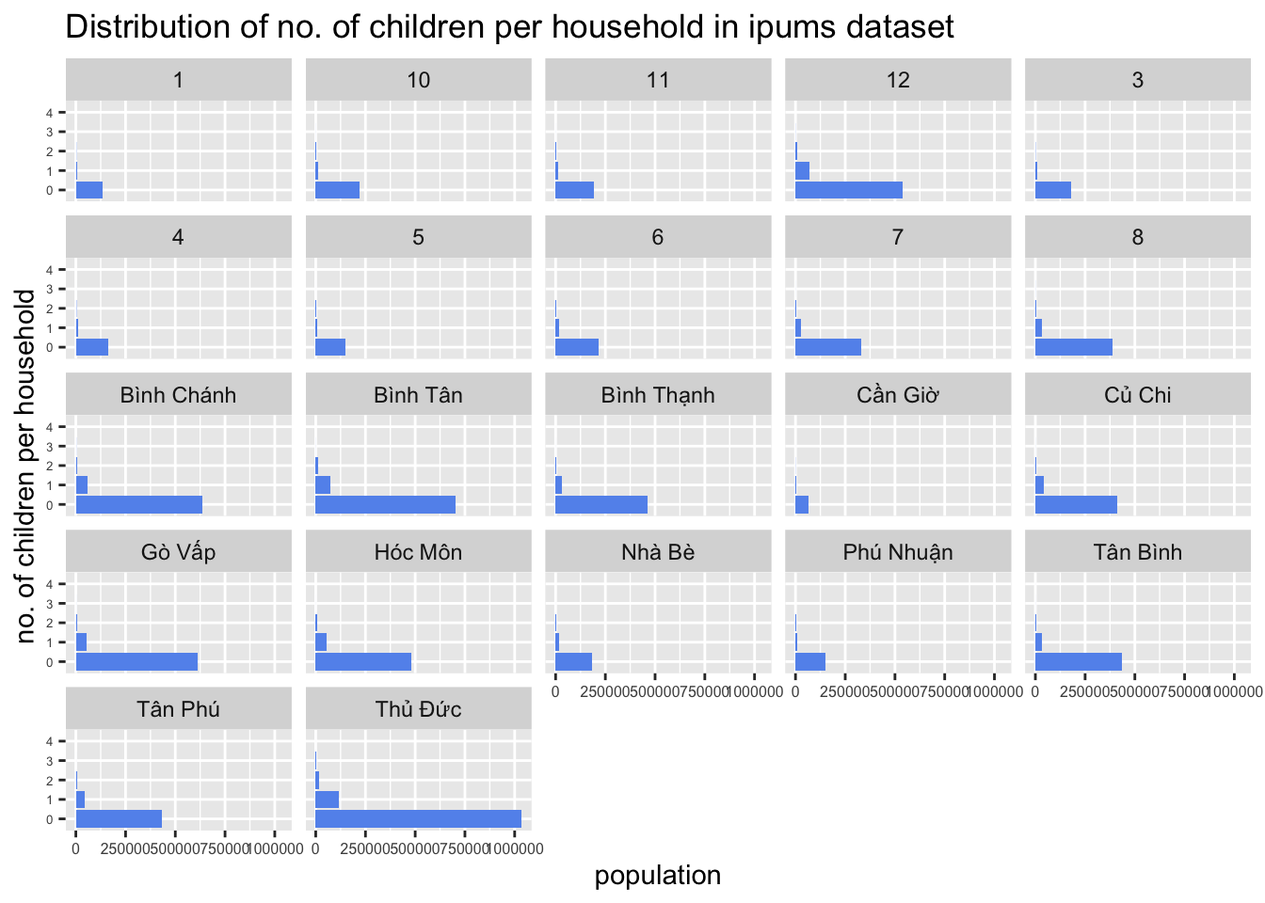
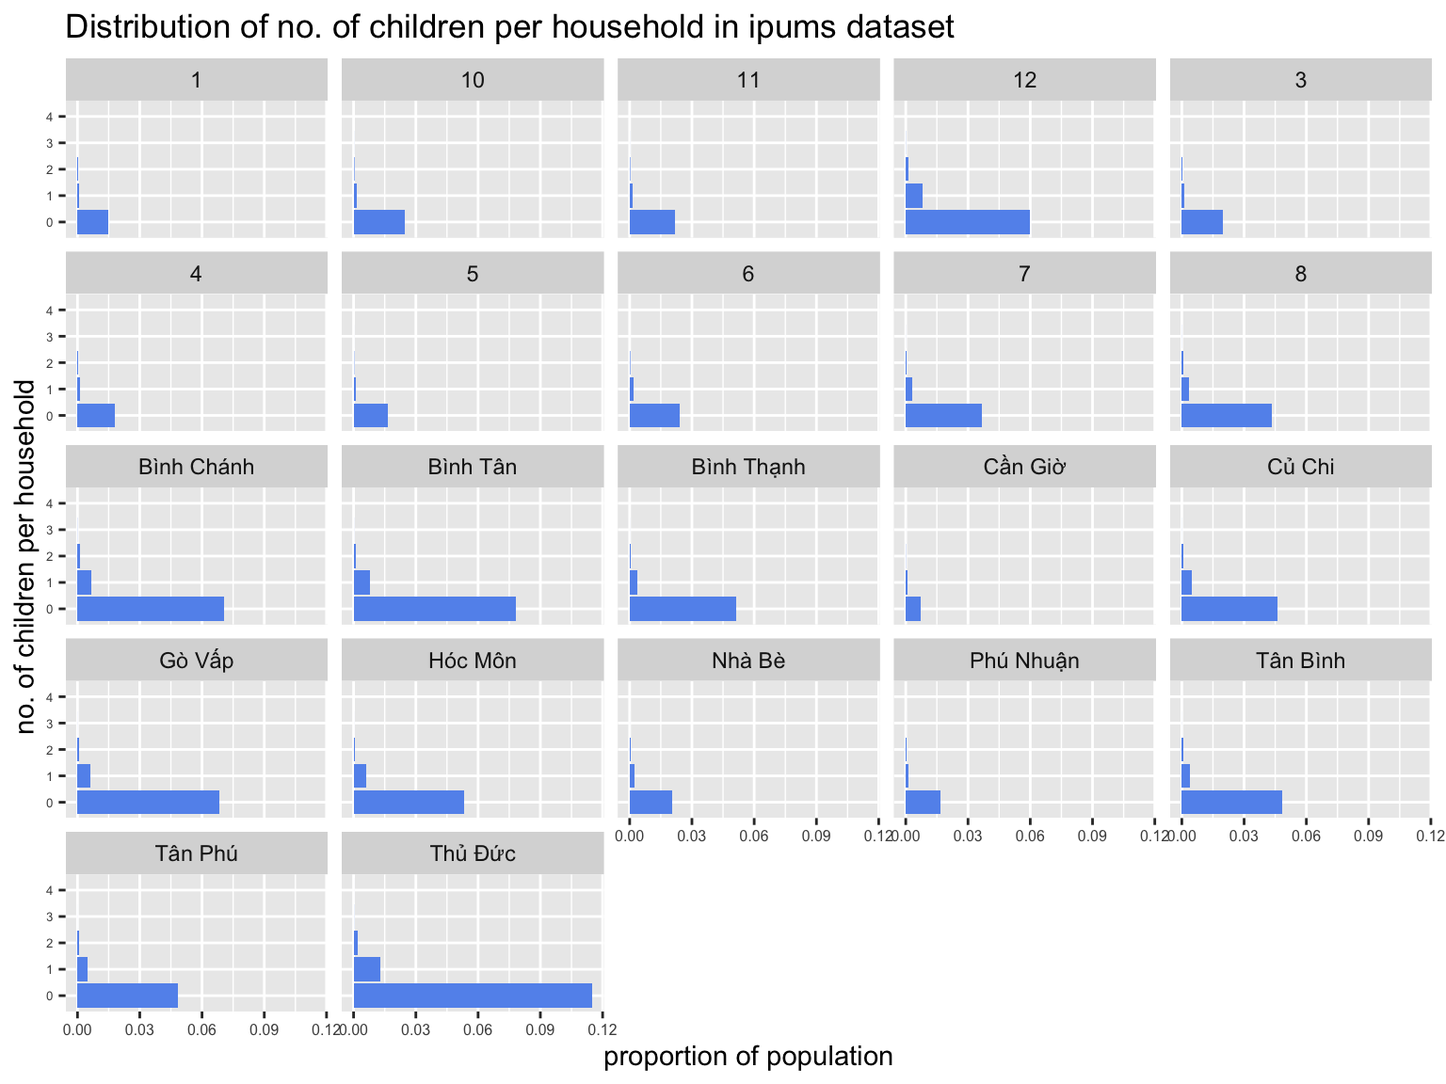
plot proportion instead of population count

Changed region(s): [[0.0, 0.0, 1.0, 1.0]]

diff --git a/synthetic_hcm.html b/synthetic_hcm.html
@@ -720,22 +720,25 @@ serial,vn2019a_pern,vn2019a_age,sex,qh,urban,pid,weight,relig,edlev,empstat,econ
 <span id="cb43-33"><a href="#cb43-33" aria-hidden="true" tabindex="-1"></a>age_pyramid <span class="ot">&lt;-</span> <span class="cf">function</span>(data, <span class="at">pop_col =</span> <span class="st">"population"</span>, <span class="at">agegrp_col =</span> <span class="st">"age_group"</span>,</span>
 <span id="cb43-34"><a href="#cb43-34" aria-hidden="true" tabindex="-1"></a>                        <span class="at">gender_col =</span> <span class="st">"sex"</span>, <span class="at">region_col =</span> <span class="st">"qh"</span>){</span>
 <span id="cb43-35"><a href="#cb43-35" aria-hidden="true" tabindex="-1"></a>  </span>
-<span id="cb43-36"><a href="#cb43-36" aria-hidden="true" tabindex="-1"></a>  pop_breaks <span class="ot">&lt;-</span> <span class="fu">pretty</span>(data[[pop_col]])</span>
-<span id="cb43-37"><a href="#cb43-37" aria-hidden="true" tabindex="-1"></a>  </span>
-<span id="cb43-38"><a href="#cb43-38" aria-hidden="true" tabindex="-1"></a>  <span class="fu">ggplot</span>(data) <span class="sc">+</span></span>
-<span id="cb43-39"><a href="#cb43-39" aria-hidden="true" tabindex="-1"></a>      <span class="fu">geom_col</span>(</span>
-<span id="cb43-40"><a href="#cb43-40" aria-hidden="true" tabindex="-1"></a>        <span class="fu">aes</span>(</span>
-<span id="cb43-41"><a href="#cb43-41" aria-hidden="true" tabindex="-1"></a>          <span class="at">x =</span> <span class="sc">!!</span> <span class="fu">sym</span>(pop_col), <span class="at">fill =</span> <span class="sc">!!</span> <span class="fu">sym</span>(gender_col), <span class="at">y  =</span> <span class="sc">!!</span> <span class="fu">sym</span>(agegrp_col)</span>
-<span id="cb43-42"><a href="#cb43-42" aria-hidden="true" tabindex="-1"></a>          )</span>
-<span id="cb43-43"><a href="#cb43-43" aria-hidden="true" tabindex="-1"></a>        ) <span class="sc">+</span></span>
-<span id="cb43-44"><a href="#cb43-44" aria-hidden="true" tabindex="-1"></a>        <span class="fu">scale_x_continuous</span>(</span>
-<span id="cb43-45"><a href="#cb43-45" aria-hidden="true" tabindex="-1"></a>          <span class="at">breaks =</span> pop_breaks,</span>
-<span id="cb43-46"><a href="#cb43-46" aria-hidden="true" tabindex="-1"></a>          <span class="at">labels =</span> <span class="fu">abs</span>(pop_breaks)</span>
-<span id="cb43-47"><a href="#cb43-47" aria-hidden="true" tabindex="-1"></a>        ) <span class="sc">+</span></span>
-<span id="cb43-48"><a href="#cb43-48" aria-hidden="true" tabindex="-1"></a>    <span class="fu">theme</span>(<span class="at">axis.text.x =</span> <span class="fu">element_text</span>(<span class="at">size =</span> <span class="dv">6</span>),</span>
-<span id="cb43-49"><a href="#cb43-49" aria-hidden="true" tabindex="-1"></a>          <span class="at">axis.text.y =</span> <span class="fu">element_text</span>(<span class="at">size =</span> <span class="dv">5</span>)) <span class="sc">+</span></span>
-<span id="cb43-50"><a href="#cb43-50" aria-hidden="true" tabindex="-1"></a>        <span class="fu">facet_wrap</span>(<span class="fu">vars</span>(<span class="sc">!!</span> <span class="fu">sym</span>(region_col) ))</span>
-<span id="cb43-51"><a href="#cb43-51" aria-hidden="true" tabindex="-1"></a>}</span></code><button title="Copy to Clipboard" class="code-copy-button"><i class="bi"></i></button></pre></div>
+<span id="cb43-36"><a href="#cb43-36" aria-hidden="true" tabindex="-1"></a>  <span class="co"># compute proportion instead </span></span>
+<span id="cb43-37"><a href="#cb43-37" aria-hidden="true" tabindex="-1"></a>  data[[pop_col]] <span class="ot">&lt;-</span> data[[pop_col]]<span class="sc">/</span><span class="fu">sum</span>(data[[pop_col]])</span>
+<span id="cb43-38"><a href="#cb43-38" aria-hidden="true" tabindex="-1"></a>  pop_breaks <span class="ot">&lt;-</span> <span class="fu">pretty</span>(data[[pop_col]])</span>
+<span id="cb43-39"><a href="#cb43-39" aria-hidden="true" tabindex="-1"></a>  </span>
+<span id="cb43-40"><a href="#cb43-40" aria-hidden="true" tabindex="-1"></a>  <span class="fu">ggplot</span>(data) <span class="sc">+</span></span>
+<span id="cb43-41"><a href="#cb43-41" aria-hidden="true" tabindex="-1"></a>      <span class="fu">geom_col</span>(</span>
+<span id="cb43-42"><a href="#cb43-42" aria-hidden="true" tabindex="-1"></a>        <span class="fu">aes</span>(</span>
+<span id="cb43-43"><a href="#cb43-43" aria-hidden="true" tabindex="-1"></a>          <span class="at">x =</span> <span class="sc">!!</span> <span class="fu">sym</span>(pop_col), <span class="at">fill =</span> <span class="sc">!!</span> <span class="fu">sym</span>(gender_col), <span class="at">y  =</span> <span class="sc">!!</span> <span class="fu">sym</span>(agegrp_col)</span>
+<span id="cb43-44"><a href="#cb43-44" aria-hidden="true" tabindex="-1"></a>          )</span>
+<span id="cb43-45"><a href="#cb43-45" aria-hidden="true" tabindex="-1"></a>        ) <span class="sc">+</span></span>
+<span id="cb43-46"><a href="#cb43-46" aria-hidden="true" tabindex="-1"></a>        <span class="fu">scale_x_continuous</span>(</span>
+<span id="cb43-47"><a href="#cb43-47" aria-hidden="true" tabindex="-1"></a>          <span class="at">breaks =</span> pop_breaks,</span>
+<span id="cb43-48"><a href="#cb43-48" aria-hidden="true" tabindex="-1"></a>          <span class="at">labels =</span> <span class="fu">abs</span>(pop_breaks)</span>
+<span id="cb43-49"><a href="#cb43-49" aria-hidden="true" tabindex="-1"></a>        ) <span class="sc">+</span></span>
+<span id="cb43-50"><a href="#cb43-50" aria-hidden="true" tabindex="-1"></a>        <span class="fu">labs</span>(<span class="at">x =</span> <span class="st">"proportion of population"</span>) <span class="sc">+</span></span>
+<span id="cb43-51"><a href="#cb43-51" aria-hidden="true" tabindex="-1"></a>        <span class="fu">theme</span>(<span class="at">axis.text.x =</span> <span class="fu">element_text</span>(<span class="at">size =</span> <span class="dv">6</span>),</span>
+<span id="cb43-52"><a href="#cb43-52" aria-hidden="true" tabindex="-1"></a>              <span class="at">axis.text.y =</span> <span class="fu">element_text</span>(<span class="at">size =</span> <span class="dv">5</span>)) <span class="sc">+</span></span>
+<span id="cb43-53"><a href="#cb43-53" aria-hidden="true" tabindex="-1"></a>        <span class="fu">facet_wrap</span>(<span class="fu">vars</span>(<span class="sc">!!</span> <span class="fu">sym</span>(region_col) ))</span>
+<span id="cb43-54"><a href="#cb43-54" aria-hidden="true" tabindex="-1"></a>}</span></code><button title="Copy to Clipboard" class="code-copy-button"><i class="bi"></i></button></pre></div>
 </details>
 </div>
 <div class="panel-tabset">
@@ -780,28 +783,31 @@ serial,vn2019a_pern,vn2019a_age,sex,qh,urban,pid,weight,relig,edlev,empstat,econ
 <span id="cb47-5"><a href="#cb47-5" aria-hidden="true" tabindex="-1"></a>  </span>
 <span id="cb47-6"><a href="#cb47-6" aria-hidden="true" tabindex="-1"></a>  <span class="co"># compute population to plot </span></span>
 <span id="cb47-7"><a href="#cb47-7" aria-hidden="true" tabindex="-1"></a>  dist <span class="ot">&lt;-</span> data <span class="sc">%&gt;%</span> </span>
-<span id="cb47-8"><a href="#cb47-8" aria-hidden="true" tabindex="-1"></a>  <span class="fu">group_by</span>(<span class="sc">!!</span><span class="fu">sym</span>(region_col), <span class="sc">!!</span><span class="fu">sym</span>(plot_col)) <span class="sc">%&gt;%</span> </span>
-<span id="cb47-9"><a href="#cb47-9" aria-hidden="true" tabindex="-1"></a>  <span class="fu">summarize</span>(<span class="at">population =</span> <span class="fu">eval</span>(rlang<span class="sc">::</span><span class="fu">parse_expr</span>(pop_formula)) ) <span class="sc">%&gt;%</span> </span>
-<span id="cb47-10"><a href="#cb47-10" aria-hidden="true" tabindex="-1"></a>  <span class="fu">ungroup</span>()</span>
+<span id="cb47-8"><a href="#cb47-8" aria-hidden="true" tabindex="-1"></a>    <span class="fu">group_by</span>(<span class="sc">!!</span><span class="fu">sym</span>(region_col), <span class="sc">!!</span><span class="fu">sym</span>(plot_col)) <span class="sc">%&gt;%</span> </span>
+<span id="cb47-9"><a href="#cb47-9" aria-hidden="true" tabindex="-1"></a>    <span class="fu">summarize</span>(<span class="at">population =</span> <span class="fu">eval</span>(rlang<span class="sc">::</span><span class="fu">parse_expr</span>(pop_formula)) ) <span class="sc">%&gt;%</span> </span>
+<span id="cb47-10"><a href="#cb47-10" aria-hidden="true" tabindex="-1"></a>    <span class="fu">ungroup</span>()</span>
 <span id="cb47-11"><a href="#cb47-11" aria-hidden="true" tabindex="-1"></a>  </span>
-<span id="cb47-12"><a href="#cb47-12" aria-hidden="true" tabindex="-1"></a>  <span class="co"># handle label for plotted column</span></span>
-<span id="cb47-13"><a href="#cb47-13" aria-hidden="true" tabindex="-1"></a>  <span class="cf">if</span> (<span class="fu">is.null</span>(col_label)){ col_label <span class="ot">&lt;-</span> plot_col }</span>
-<span id="cb47-14"><a href="#cb47-14" aria-hidden="true" tabindex="-1"></a></span>
-<span id="cb47-15"><a href="#cb47-15" aria-hidden="true" tabindex="-1"></a>  <span class="fu">ggplot</span>(dist) <span class="sc">+</span></span>
-<span id="cb47-16"><a href="#cb47-16" aria-hidden="true" tabindex="-1"></a>    <span class="fu">geom_col</span>(</span>
-<span id="cb47-17"><a href="#cb47-17" aria-hidden="true" tabindex="-1"></a>          <span class="fu">aes</span>(</span>
-<span id="cb47-18"><a href="#cb47-18" aria-hidden="true" tabindex="-1"></a>            <span class="at">x =</span> population, <span class="at">y  =</span> <span class="fu">as.factor</span>(<span class="sc">!!</span> <span class="fu">sym</span>(plot_col))</span>
-<span id="cb47-19"><a href="#cb47-19" aria-hidden="true" tabindex="-1"></a>            ),</span>
-<span id="cb47-20"><a href="#cb47-20" aria-hidden="true" tabindex="-1"></a>          <span class="at">fill =</span> <span class="st">"cornflowerblue"</span></span>
-<span id="cb47-21"><a href="#cb47-21" aria-hidden="true" tabindex="-1"></a>          ) <span class="sc">+</span></span>
-<span id="cb47-22"><a href="#cb47-22" aria-hidden="true" tabindex="-1"></a>    <span class="fu">theme</span>(<span class="at">axis.text.x =</span> <span class="fu">element_text</span>(<span class="at">size =</span> <span class="dv">6</span>),</span>
-<span id="cb47-23"><a href="#cb47-23" aria-hidden="true" tabindex="-1"></a>          <span class="at">axis.text.y =</span> <span class="fu">element_text</span>(<span class="at">size =</span> <span class="dv">5</span>)) <span class="sc">+</span></span>
-<span id="cb47-24"><a href="#cb47-24" aria-hidden="true" tabindex="-1"></a>    <span class="fu">labs</span>(</span>
-<span id="cb47-25"><a href="#cb47-25" aria-hidden="true" tabindex="-1"></a>      <span class="at">title =</span> <span class="fu">str_interp</span>(<span class="st">"Distribution of ${col_label} in ${data_label} dataset"</span>),</span>
-<span id="cb47-26"><a href="#cb47-26" aria-hidden="true" tabindex="-1"></a>      <span class="at">y =</span> col_label</span>
-<span id="cb47-27"><a href="#cb47-27" aria-hidden="true" tabindex="-1"></a>    ) <span class="sc">+</span></span>
-<span id="cb47-28"><a href="#cb47-28" aria-hidden="true" tabindex="-1"></a>    <span class="fu">facet_wrap</span>(<span class="fu">vars</span>(<span class="sc">!!</span> <span class="fu">sym</span>(region_col) )) </span>
-<span id="cb47-29"><a href="#cb47-29" aria-hidden="true" tabindex="-1"></a>}</span></code><button title="Copy to Clipboard" class="code-copy-button"><i class="bi"></i></button></pre></div>
+<span id="cb47-12"><a href="#cb47-12" aria-hidden="true" tabindex="-1"></a>  dist<span class="sc">$</span>prop <span class="ot">&lt;-</span> dist<span class="sc">$</span>population<span class="sc">/</span><span class="fu">sum</span>(dist<span class="sc">$</span>population)</span>
+<span id="cb47-13"><a href="#cb47-13" aria-hidden="true" tabindex="-1"></a>  </span>
+<span id="cb47-14"><a href="#cb47-14" aria-hidden="true" tabindex="-1"></a>  <span class="co"># handle label for plotted column</span></span>
+<span id="cb47-15"><a href="#cb47-15" aria-hidden="true" tabindex="-1"></a>  <span class="cf">if</span> (<span class="fu">is.null</span>(col_label)){ col_label <span class="ot">&lt;-</span> plot_col }</span>
+<span id="cb47-16"><a href="#cb47-16" aria-hidden="true" tabindex="-1"></a></span>
+<span id="cb47-17"><a href="#cb47-17" aria-hidden="true" tabindex="-1"></a>  <span class="fu">ggplot</span>(dist) <span class="sc">+</span></span>
+<span id="cb47-18"><a href="#cb47-18" aria-hidden="true" tabindex="-1"></a>    <span class="fu">geom_col</span>(</span>
+<span id="cb47-19"><a href="#cb47-19" aria-hidden="true" tabindex="-1"></a>          <span class="fu">aes</span>(</span>
+<span id="cb47-20"><a href="#cb47-20" aria-hidden="true" tabindex="-1"></a>            <span class="at">x =</span> prop, <span class="at">y  =</span> <span class="fu">as.factor</span>(<span class="sc">!!</span> <span class="fu">sym</span>(plot_col))</span>
+<span id="cb47-21"><a href="#cb47-21" aria-hidden="true" tabindex="-1"></a>            ),</span>
+<span id="cb47-22"><a href="#cb47-22" aria-hidden="true" tabindex="-1"></a>          <span class="at">fill =</span> <span class="st">"cornflowerblue"</span></span>
+<span id="cb47-23"><a href="#cb47-23" aria-hidden="true" tabindex="-1"></a>          ) <span class="sc">+</span></span>
+<span id="cb47-24"><a href="#cb47-24" aria-hidden="true" tabindex="-1"></a>    <span class="fu">theme</span>(<span class="at">axis.text.x =</span> <span class="fu">element_text</span>(<span class="at">size =</span> <span class="dv">6</span>),</span>
+<span id="cb47-25"><a href="#cb47-25" aria-hidden="true" tabindex="-1"></a>          <span class="at">axis.text.y =</span> <span class="fu">element_text</span>(<span class="at">size =</span> <span class="dv">5</span>)) <span class="sc">+</span></span>
+<span id="cb47-26"><a href="#cb47-26" aria-hidden="true" tabindex="-1"></a>    <span class="fu">labs</span>(</span>
+<span id="cb47-27"><a href="#cb47-27" aria-hidden="true" tabindex="-1"></a>      <span class="at">title =</span> <span class="fu">str_interp</span>(<span class="st">"Distribution of ${col_label} in ${data_label} dataset"</span>),</span>
+<span id="cb47-28"><a href="#cb47-28" aria-hidden="true" tabindex="-1"></a>      <span class="at">x =</span> <span class="st">"proportion of population"</span>,</span>
+<span id="cb47-29"><a href="#cb47-29" aria-hidden="true" tabindex="-1"></a>      <span class="at">y =</span> col_label</span>
+<span id="cb47-30"><a href="#cb47-30" aria-hidden="true" tabindex="-1"></a>    ) <span class="sc">+</span></span>
+<span id="cb47-31"><a href="#cb47-31" aria-hidden="true" tabindex="-1"></a>    <span class="fu">facet_wrap</span>(<span class="fu">vars</span>(<span class="sc">!!</span> <span class="fu">sym</span>(region_col) )) </span>
+<span id="cb47-32"><a href="#cb47-32" aria-hidden="true" tabindex="-1"></a>}</span></code><button title="Copy to Clipboard" class="code-copy-button"><i class="bi"></i></button></pre></div>
 </details>
 </div>
 <div class="panel-tabset">
@@ -812,12 +818,12 @@ serial,vn2019a_pern,vn2019a_age,sex,qh,urban,pid,weight,relig,edlev,empstat,econ
 <div class="sourceCode cell-code" id="cb48"><pre class="sourceCode r code-with-copy"><code class="sourceCode r"><span id="cb48-1"><a href="#cb48-1" aria-hidden="true" tabindex="-1"></a><span class="fu">plot_var_dist</span>(synthetic_population<span class="sc">@</span>pop<span class="sc">@</span>data, </span>
 <span id="cb48-2"><a href="#cb48-2" aria-hidden="true" tabindex="-1"></a>      <span class="at">plot_col =</span> <span class="st">"edlev"</span>, <span class="at">col_label =</span> <span class="st">"education level"</span>, <span class="at">data_label =</span> <span class="st">"synthetic"</span>)</span></code><button title="Copy to Clipboard" class="code-copy-button"><i class="bi"></i></button></pre></div>
 <div class="cell-output-display">
-<p><img src="synthetic_hcm_files/figure-html/unnamed-chunk-22-1.png" class="img-fluid" width="672"></p>
+<p><img src="synthetic_hcm_files/figure-html/unnamed-chunk-22-1.png" class="img-fluid" style="width:100.0%"></p>
 </div>
 <div class="sourceCode cell-code" id="cb49"><pre class="sourceCode r code-with-copy"><code class="sourceCode r"><span id="cb49-1"><a href="#cb49-1" aria-hidden="true" tabindex="-1"></a><span class="fu">plot_var_dist</span>(micro_data, <span class="at">pop_formula =</span> <span class="st">"sum(perwt)"</span>, </span>
 <span id="cb49-2"><a href="#cb49-2" aria-hidden="true" tabindex="-1"></a>              <span class="at">plot_col =</span> <span class="st">"edlev"</span>, <span class="at">col_label =</span> <span class="st">"education level"</span>, <span class="at">data_label =</span> <span class="st">"ipums"</span>)</span></code><button title="Copy to Clipboard" class="code-copy-button"><i class="bi"></i></button></pre></div>
 <div class="cell-output-display">
-<p><img src="synthetic_hcm_files/figure-html/unnamed-chunk-22-2.png" class="img-fluid" width="672"></p>
+<p><img src="synthetic_hcm_files/figure-html/unnamed-chunk-22-2.png" class="img-fluid" style="width:100.0%"></p>
 </div>
 </div>
 </div>
@@ -826,12 +832,12 @@ serial,vn2019a_pern,vn2019a_age,sex,qh,urban,pid,weight,relig,edlev,empstat,econ
 <div class="sourceCode cell-code" id="cb50"><pre class="sourceCode r code-with-copy"><code class="sourceCode r"><span id="cb50-1"><a href="#cb50-1" aria-hidden="true" tabindex="-1"></a><span class="fu">plot_var_dist</span>(synthetic_population<span class="sc">@</span>pop<span class="sc">@</span>data, <span class="at">plot_col =</span> <span class="st">"urban"</span>,</span>
 <span id="cb50-2"><a href="#cb50-2" aria-hidden="true" tabindex="-1"></a>              <span class="at">col_label =</span> <span class="st">"urban-rural status"</span>, <span class="at">data_label =</span> <span class="st">"synthetic"</span>)</span></code><button title="Copy to Clipboard" class="code-copy-button"><i class="bi"></i></button></pre></div>
 <div class="cell-output-display">
-<p><img src="synthetic_hcm_files/figure-html/unnamed-chunk-23-1.png" class="img-fluid" width="672"></p>
+<p><img src="synthetic_hcm_files/figure-html/unnamed-chunk-23-1.png" class="img-fluid" style="width:100.0%"></p>
 </div>
 <div class="sourceCode cell-code" id="cb51"><pre class="sourceCode r code-with-copy"><code class="sourceCode r"><span id="cb51-1"><a href="#cb51-1" aria-hidden="true" tabindex="-1"></a><span class="fu">plot_var_dist</span>(micro_data, <span class="at">pop_formula =</span> <span class="st">"sum(perwt)"</span>, <span class="at">plot_col =</span> <span class="st">"urban"</span>,</span>
 <span id="cb51-2"><a href="#cb51-2" aria-hidden="true" tabindex="-1"></a>              <span class="at">col_label =</span> <span class="st">"urban-rural status"</span>, <span class="at">data_label =</span> <span class="st">"ipums"</span>)</span></code><button title="Copy to Clipboard" class="code-copy-button"><i class="bi"></i></button></pre></div>
 <div class="cell-output-display">
-<p><img src="synthetic_hcm_files/figure-html/unnamed-chunk-23-2.png" class="img-fluid" width="672"></p>
+<p><img src="synthetic_hcm_files/figure-html/unnamed-chunk-23-2.png" class="img-fluid" style="width:100.0%"></p>
 </div>
 </div>
 </div>
@@ -840,12 +846,12 @@ serial,vn2019a_pern,vn2019a_age,sex,qh,urban,pid,weight,relig,edlev,empstat,econ
 <div class="sourceCode cell-code" id="cb52"><pre class="sourceCode r code-with-copy"><code class="sourceCode r"><span id="cb52-1"><a href="#cb52-1" aria-hidden="true" tabindex="-1"></a><span class="fu">plot_var_dist</span>(synthetic_population<span class="sc">@</span>pop<span class="sc">@</span>data, <span class="at">plot_col =</span> <span class="st">"nchlt5"</span>,</span>
 <span id="cb52-2"><a href="#cb52-2" aria-hidden="true" tabindex="-1"></a>            <span class="at">col_label =</span> <span class="st">"no. of children per household"</span>, <span class="at">data_label =</span> <span class="st">"synthetic"</span>)</span></code><button title="Copy to Clipboard" class="code-copy-button"><i class="bi"></i></button></pre></div>
 <div class="cell-output-display">
-<p><img src="synthetic_hcm_files/figure-html/unnamed-chunk-24-1.png" class="img-fluid" width="672"></p>
+<p><img src="synthetic_hcm_files/figure-html/unnamed-chunk-24-1.png" class="img-fluid" style="width:100.0%"></p>
 </div>
 <div class="sourceCode cell-code" id="cb53"><pre class="sourceCode r code-with-copy"><code class="sourceCode r"><span id="cb53-1"><a href="#cb53-1" aria-hidden="true" tabindex="-1"></a><span class="fu">plot_var_dist</span>(micro_data, <span class="at">pop_formula =</span> <span class="st">"sum(perwt)"</span>, <span class="at">plot_col =</span> <span class="st">"nchlt5"</span>,</span>
 <span id="cb53-2"><a href="#cb53-2" aria-hidden="true" tabindex="-1"></a>            <span class="at">col_label =</span> <span class="st">"no. of children per household"</span>, <span class="at">data_label =</span> <span class="st">"ipums"</span>)</span></code><button title="Copy to Clipboard" class="code-copy-button"><i class="bi"></i></button></pre></div>
 <div class="cell-output-display">
-<p><img src="synthetic_hcm_files/figure-html/unnamed-chunk-24-2.png" class="img-fluid" width="672"></p>
+<p><img src="synthetic_hcm_files/figure-html/unnamed-chunk-24-2.png" class="img-fluid" style="width:100.0%"></p>
 </div>
 </div>
 </div>
@@ -854,12 +860,12 @@ serial,vn2019a_pern,vn2019a_age,sex,qh,urban,pid,weight,relig,edlev,empstat,econ
 <div class="sourceCode cell-code" id="cb54"><pre class="sourceCode r code-with-copy"><code class="sourceCode r"><span id="cb54-1"><a href="#cb54-1" aria-hidden="true" tabindex="-1"></a><span class="fu">plot_var_dist</span>(synthetic_population<span class="sc">@</span>pop<span class="sc">@</span>data, <span class="at">plot_col =</span> <span class="st">"relig"</span>,</span>
 <span id="cb54-2"><a href="#cb54-2" aria-hidden="true" tabindex="-1"></a>            <span class="at">col_label =</span> <span class="st">"religion"</span>, <span class="at">data_label =</span> <span class="st">"synthetic"</span>)</span></code><button title="Copy to Clipboard" class="code-copy-button"><i class="bi"></i></button></pre></div>
 <div class="cell-output-display">
-<p><img src="synthetic_hcm_files/figure-html/unnamed-chunk-25-1.png" class="img-fluid" width="672"></p>
+<p><img src="synthetic_hcm_files/figure-html/unnamed-chunk-25-1.png" class="img-fluid" style="width:100.0%"></p>
 </div>
 <div class="sourceCode cell-code" id="cb55"><pre class="sourceCode r code-with-copy"><code class="sourceCode r"><span id="cb55-1"><a href="#cb55-1" aria-hidden="true" tabindex="-1"></a><span class="fu">plot_var_dist</span>(micro_data, <span class="at">pop_formula =</span> <span class="st">"sum(perwt)"</span>, <span class="at">plot_col =</span> <span class="st">"relig"</span>,</span>
 <span id="cb55-2"><a href="#cb55-2" aria-hidden="true" tabindex="-1"></a>            <span class="at">col_label =</span> <span class="st">"religion"</span>, <span class="at">data_label =</span> <span class="st">"ipums"</span>)</span></code><button title="Copy to Clipboard" class="code-copy-button"><i class="bi"></i></button></pre></div>
 <div class="cell-output-display">
-<p><img src="synthetic_hcm_files/figure-html/unnamed-chunk-25-2.png" class="img-fluid" width="672"></p>
+<p><img src="synthetic_hcm_files/figure-html/unnamed-chunk-25-2.png" class="img-fluid" style="width:100.0%"></p>
 </div>
 </div>
 </div>
@@ -868,12 +874,12 @@ serial,vn2019a_pern,vn2019a_age,sex,qh,urban,pid,weight,relig,edlev,empstat,econ
 <div class="sourceCode cell-code" id="cb56"><pre class="sourceCode r code-with-copy"><code class="sourceCode r"><span id="cb56-1"><a href="#cb56-1" aria-hidden="true" tabindex="-1"></a><span class="fu">plot_var_dist</span>(synthetic_population<span class="sc">@</span>pop<span class="sc">@</span>data, <span class="at">plot_col =</span> <span class="st">"economic_status"</span>,</span>
 <span id="cb56-2"><a href="#cb56-2" aria-hidden="true" tabindex="-1"></a>              <span class="at">col_label =</span> <span class="st">"economic status"</span>, <span class="at">data_label =</span> <span class="st">"synthetic"</span>)</span></code><button title="Copy to Clipboard" class="code-copy-button"><i class="bi"></i></button></pre></div>
 <div class="cell-output-display">
-<p><img src="synthetic_hcm_files/figure-html/unnamed-chunk-26-1.png" class="img-fluid" width="672"></p>
+<p><img src="synthetic_hcm_files/figure-html/unnamed-chunk-26-1.png" class="img-fluid" style="width:100.0%"></p>
 </div>
 <div class="sourceCode cell-code" id="cb57"><pre class="sourceCode r code-with-copy"><code class="sourceCode r"><span id="cb57-1"><a href="#cb57-1" aria-hidden="true" tabindex="-1"></a><span class="fu">plot_var_dist</span>(micro_data, <span class="at">pop_formula =</span> <span class="st">"sum(perwt)"</span>, <span class="at">plot_col =</span> <span class="st">"economic_status"</span>,</span>
 <span id="cb57-2"><a href="#cb57-2" aria-hidden="true" tabindex="-1"></a>              <span class="at">col_label =</span> <span class="st">"economic status"</span>, <span class="at">data_label =</span> <span class="st">"ipums"</span>)</span></code><button title="Copy to Clipboard" class="code-copy-button"><i class="bi"></i></button></pre></div>
 <div class="cell-output-display">
-<p><img src="synthetic_hcm_files/figure-html/unnamed-chunk-26-2.png" class="img-fluid" width="672"></p>
+<p><img src="synthetic_hcm_files/figure-html/unnamed-chunk-26-2.png" class="img-fluid" style="width:100.0%"></p>
 </div>
 </div>
 </div>
